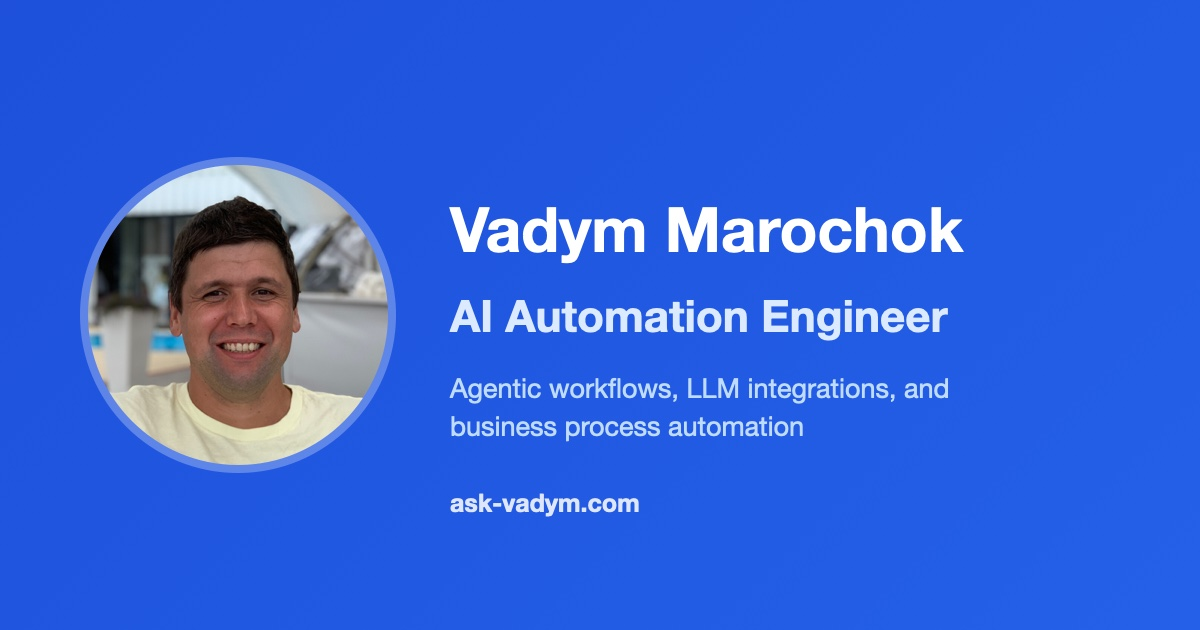
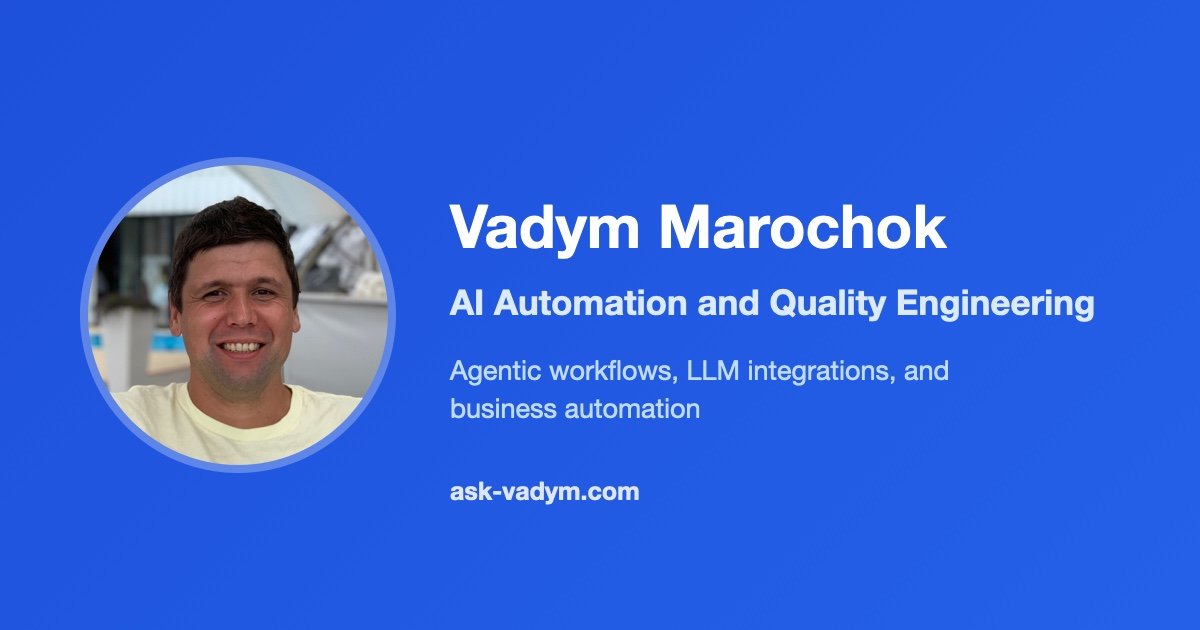
feat: align metadata and share card with the broader headline
The page title, description and Open Graph card still said "AI Automation
Engineer" and carried the audience clause that was dropped from the hero,
so the homepage and anything sharing it disagreed.

Update the title and alt text to match the headline, rewrite the
description around the hero line while keeping the quality engineering
background explicit, and regenerate the share card with the longer
subtitle set slightly smaller so it stays in frame.

diff --git a/frontend/src/app/layout.tsx b/frontend/src/app/layout.tsx
@@ -9,9 +9,9 @@ const inter = Inter({
 });
 
 const SITE_URL = "https://ask-vadym.com";
-const SITE_TITLE = "Vadym Marochok | AI Automation Engineer";
+const SITE_TITLE = "Vadym Marochok | AI Automation and Quality Engineering";
 const SITE_DESCRIPTION =
-  "AI Automation Engineer building LLM-powered workflows, AI agents, and business process automations for sales, customer operations, and internal teams.";
+  "Agentic workflows, LLM integrations, and business automation, backed by a decade of quality engineering and test automation.";
 
 export const metadata: Metadata = {
   // Required so relative Open Graph image paths resolve to absolute URLs.
@@ -29,7 +29,7 @@ export const metadata: Metadata = {
         url: "/og-image.jpg",
         width: 1200,
         height: 630,
-        alt: "Vadym Marochok — AI Automation Engineer",
+        alt: "Vadym Marochok — AI Automation and Quality Engineering",
       },
     ],
   },
